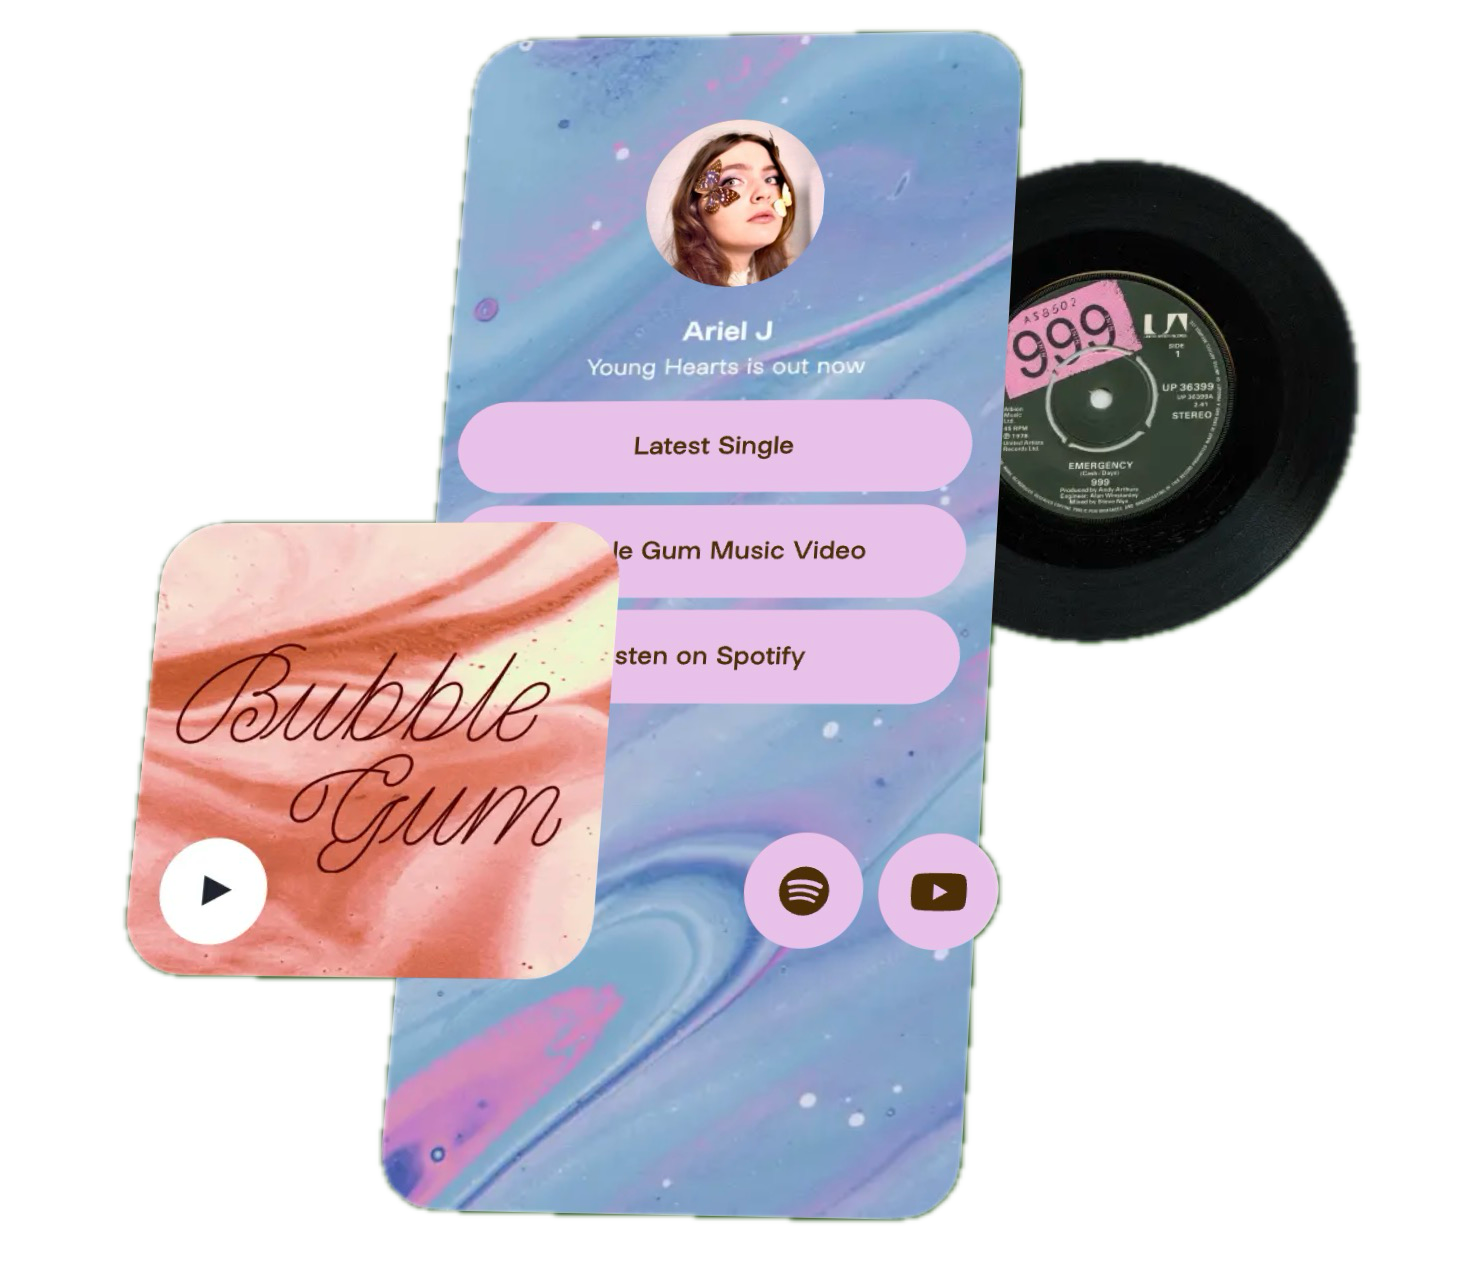
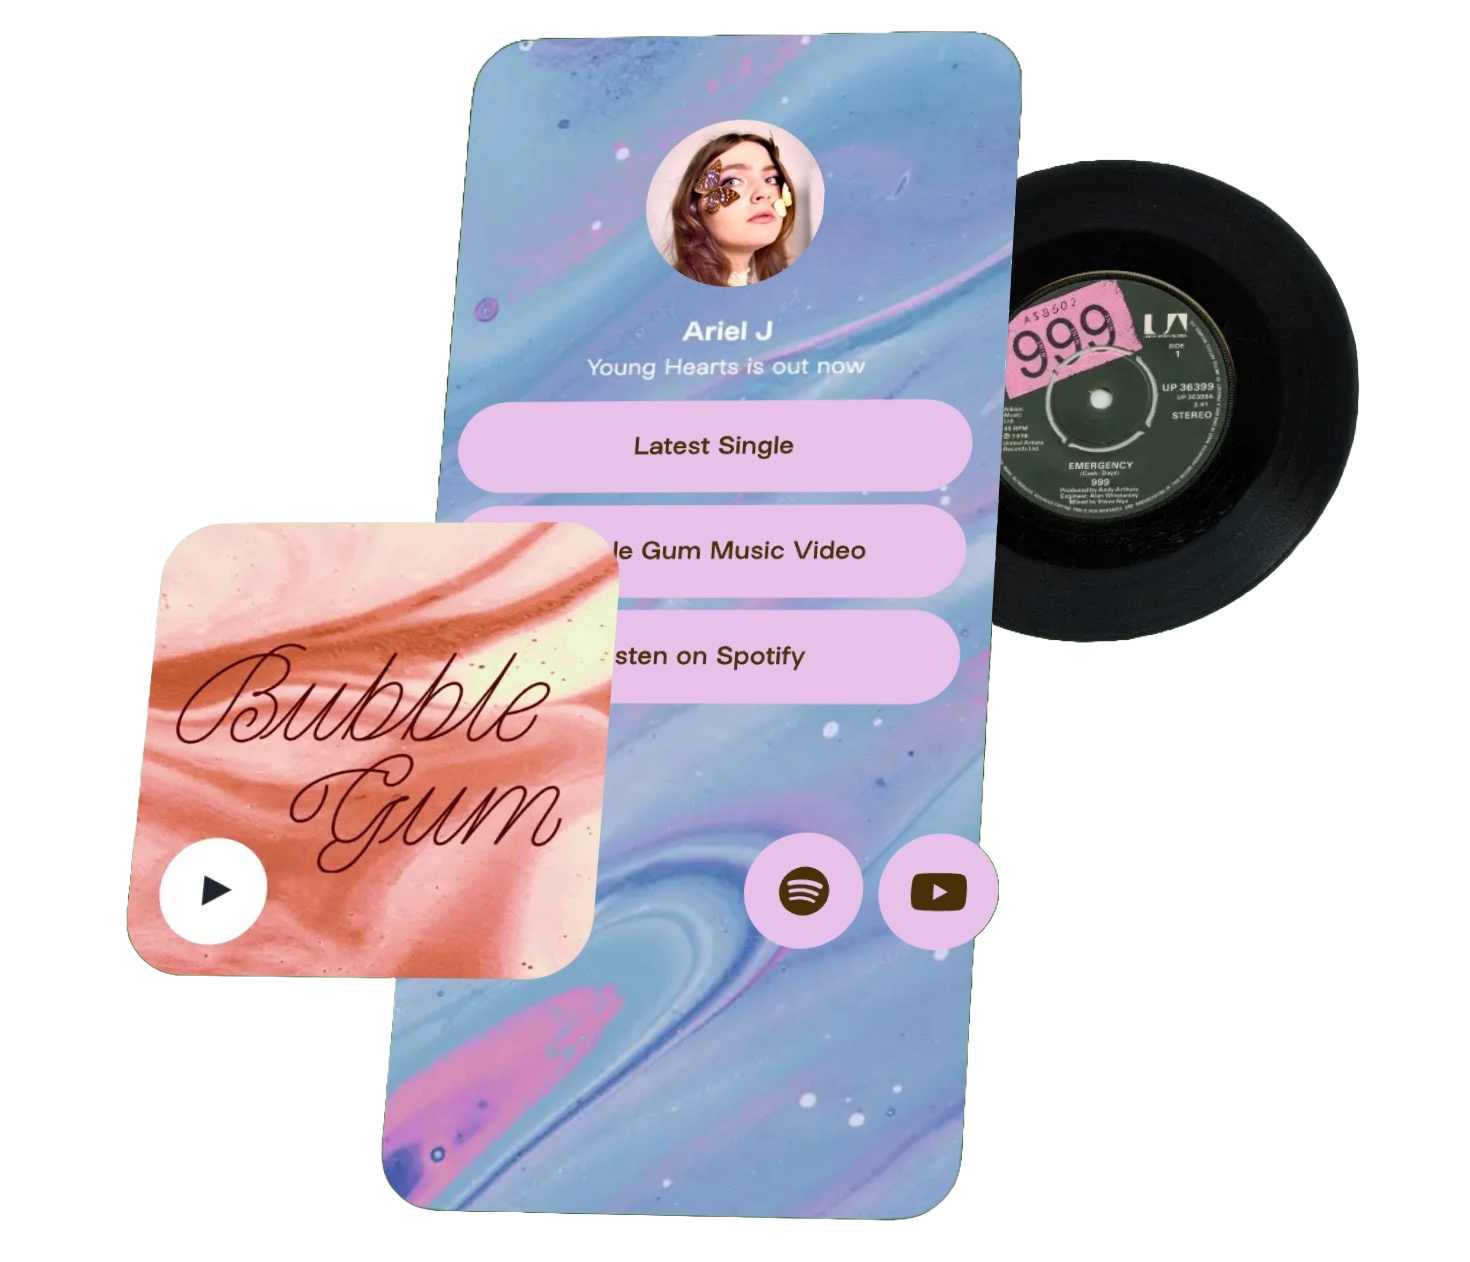
changed color theme and made responsive

diff --git a/src/app/generate/page.js b/src/app/generate/page.js
@@ -6,6 +6,7 @@ import { useSearchParams } from "next/navigation";
 import { ToastContainer, toast } from "react-toastify";
 import "react-toastify/dist/ReactToastify.css";
 import Image from "next/image";
+import { FaTimes } from "react-icons/fa"; // Import icons from react-icons
 
 const Generate = () => {
   const searchParams = useSearchParams();
@@ -43,6 +44,10 @@ const Generate = () => {
     setLinks(links.concat([{ linkName: "", link: "" }]));
   };
 
+  const deleteLink = (index) => {
+    setLinks((initialLinks) => initialLinks.filter((_, i) => i !== index));
+  };
+
   const validateLinks = () => {
     let isValid = true;
 
@@ -62,14 +67,6 @@ const Generate = () => {
   const submitLinks = async () => {
     if (!validateLinks()) {
       return; // Stop if any URL is invalid
-    }
-
-    if (!isValidURL(profilePic.trim())) {
-      toast.error("Please enter a valid profile picture URL.", {
-        position: "bottom-left",
-        theme: "colored",
-      });
-      return;
     }
 
     const myHeaders = new Headers();
@@ -97,8 +94,16 @@ const Generate = () => {
       return;
     }
 
-    if (profilePic.length === 0) {
-      toast.info("Please add profile picture link.", {
+    // if (profilePic.length === 0) {
+    //   toast.info("Please add profile picture link.", {
+    //     position: "bottom-left",
+    //     theme: "colored",
+    //   });
+    //   return;
+    // }
+
+    if (!isValidURL(profilePic.trim())) {
+      toast.error("Please enter a valid profile picture URL.", {
         position: "bottom-left",
         theme: "colored",
       });
@@ -154,14 +159,17 @@ const Generate = () => {
   };
 
   return (
-    <div className="bg-[#235ABE] min-h-screen grid grid-cols-2 border">
-      <div className="bg-white flex justify-center items-center flex-col px-6 py-12">
+    <div className="bg-[#235ABE] min-h-screen flex flex-col lg:flex-row border">
+      {/* First Div - Form Container */}
+      <div className="bg-white flex flex-col   justify-start items-center px-6 py-28 w-full lg:w-1/2">
         <ToastContainer />
-        <h1 className="text-4xl font-bold text-[#235ABE] mb-8">
+
+        {/* Heading with sticky positioning */}
+        <h1 className="text-4xl font-bold text-[#235ABE] mb-8  bg-white py-4 z-10">
           Create your Linkify
         </h1>
 
-        <div className="flex flex-col gap-10 w-full max-w-lg">
+        <div className="flex flex-col gap-10 w-full max-w-lg flex-grow">
           <div>
             <h2 className="text-2xl font-semibold text-gray-800 mb-4">
               Step 1. Claim your Handle
@@ -182,30 +190,44 @@ const Generate = () => {
             </h2>
             <div className="space-y-4">
               {links?.map((item, index) => (
-                <div key={index} className="flex gap-2">
+                <div key={index} className="flex gap-4 items-center">
+                  {/* Link Name Input */}
                   <input
                     onChange={(e) =>
                       handleChange(index, "linkName", e.target.value)
                     }
                     value={item.linkName}
-                    className="flex-1 p-4 border border-gray-300 focus:outline-none focus:ring-2 focus:ring-[#235ABE] rounded-lg shadow-md"
+                    className="w-1/4 p-2 border border-gray-300 focus:outline-none focus:ring-2 focus:ring-[#235ABE] rounded-lg shadow-md"
                     type="text"
-                    placeholder="Enter link name"
+                    placeholder="Link name"
                   />
-                  <div className="flex-1">
-                    <input
-                      onChange={(e) =>
-                        handleChange(index, "link", e.target.value)
-                      }
-                      value={item.link}
-                      className="flex-1 p-4 border border-gray-300 focus:outline-none focus:ring-2 focus:ring-[#235ABE] rounded-lg shadow-md"
-                      type="text"
-                      placeholder="Enter link"
-                    />
-                  </div>
+
+                  {/* Link URL Input */}
+                  <input
+                    onChange={(e) =>
+                      handleChange(index, "link", e.target.value)
+                    }
+                    value={item.link}
+                    className="w-3/4 p-2 border border-gray-300 focus:outline-none focus:ring-2 focus:ring-[#235ABE] rounded-lg shadow-md"
+                    type="text"
+                    placeholder="Enter link URL"
+                  />
+
+                  {/* Delete Button */}
+                  {links.length > 1 ? (
+                    <button
+                      onClick={() => deleteLink(index)}
+                      className="p-2 bg-red-500 text-white rounded-lg shadow-md hover:text-black transition"
+                    >
+                      <FaTimes className=" cursor-pointer" />
+                    </button>
+                  ) : (
+                    ""
+                  )}
                 </div>
               ))}
             </div>
+
             <div className="flex justify-center mt-4">
               <button
                 className="px-6 py-3 text-blue-700 underline font-semibold rounded-lg cursor-pointer hover:text-[#1a4196] transition"
@@ -249,7 +271,8 @@ const Generate = () => {
         </div>
       </div>
 
-      <div className="w-full flex justify-center h-screen">
+      {/* Second Div - Image Container */}
+      <div className="w-full lg:w-1/2 flex justify-center h-screen mt-6 lg:mt-0">
         <img
           className="h-full object-cover"
           src="/generate.png"

diff --git a/src/app/page.js b/src/app/page.js
@@ -2,50 +2,77 @@
 import Image from "next/image";
 import { useRouter } from "next/navigation";
 import { useState } from "react";
+import { ToastContainer, toast } from "react-toastify";
+import "react-toastify/dist/ReactToastify.css";
 
 export default function Home() {
   const [text, setText] = useState("");
   const router = useRouter();
+
   const createLinkify = () => {
+    if (text.trim() === "")
+      return toast.error("Please enter a handle!", {
+        position: "bottom-left",
+      });
     router.push(`/generate?handle=${text}`);
   };
+
   return (
     <main>
-      <section className="bg-[#274F1B] min-h-[100vh] grid grid-cols-2">
-        <div className="flex justify-center flex-col mx-[10vw] gap-2">
-          <p className="text-6xl text-yellow-500 font-bold">All of you, </p>{" "}
-          <p className="text-6xl text-yellow-500 font-bold">captured in</p>
-          <p className="text-6xl text-yellow-500 font-bold">
-            {" "}
-            one simple link.
+      {/* Hero Section */}
+      <section className="bg-[#F7F8FA] min-h-screen grid grid-cols-1 lg:grid-cols-2 py-24">
+        {/* Text Content */}
+        <div className="flex justify-center flex-col px-8 lg:pl-[10vw] lg:pr-4 py-12 gap-4">
+          <ToastContainer />
+          <h1 className="text-5xl lg:text-6xl text-[#4A4E69] font-extrabold leading-tight">
+            All of you, captured in{" "}
+            <span className="text-[#9A8C98] animate-color-change">
+              one simple link.
+            </span>{" "}
+          </h1>
+          <p className="text-[#6B705C] text-lg lg:text-xl pt-4 leading-relaxed">
+            Create your personalized Linkify page to share everything you
+            create, curate, and sell with one link. Perfect for showcasing your
+            content from Instagram, TikTok, Twitter, YouTube, and more, Linkify
+            brings all your social media profiles together in one place.
           </p>
-          <p className="text-yellow-300 text-xl pt-4">
-            Join 50M+ people using Linktree for their link in bio. One link to
-            help you share everything you create, curate and sell from your
-            Instagram, TikTok, Twitter, YouTube and other social media profiles.
-          </p>
-          <div className="mt-4">
+
+          {/* Input and Button */}
+          <div className="mt-6 flex flex-wrap gap-4">
             <input
-              className="p-2 rounded-md focus:outline-[#274F1B]"
+              className="w-full lg:w-auto p-3 rounded-md focus:outline-[#9A8C98] text-gray-800 shadow-md placeholder-gray-500 border border-gray-300"
               type="text"
-              placeholder="enter your handle"
+              placeholder="Enter your handle"
               value={text}
               onChange={(e) => setText(e.target.value)}
             />
-
             <button
-              className="bg-green-500 p-2 ml-2 rounded-lg font-semibold rounded-m"
-              onClick={() => createLinkify()}
+              className="bg-[#9A8C98] text-white p-3 rounded-md font-semibold shadow-lg hover:bg-[#6B705C] transition-all duration-300"
+              onClick={createLinkify}
             >
               Claim your Linkify
             </button>
           </div>
         </div>
-        <div className="flex items-center justify-center flex-col mx-[10vw]">
-          <Image src="/showcase.jpg" height={900} width={900} alt="showcase" />
+
+        {/* Showcase Image */}
+        <div className="flex items-center justify-center px-8 py-12 lg:pr-[15vw]">
+          <Image
+            src="/showcaseBG.png"
+            height={900}
+            width={900}
+            alt="Showcase"
+            className="rounded-lg"
+          />
         </div>
       </section>
-      <section className="bg-red-600 min-h-[100vh]"></section>
+
+      {/* Placeholder for Next Section */}
+      <section className="bg-[#FFE8D6] min-h-screen flex items-center justify-center">
+        <h2 className="text-4xl text-[#4A4E69] font-bold flex items-center justify-center">
+          More exciting features coming soon!
+        </h2>
+      </section>
     </main>
   );
 }

diff --git a/src/components/Header.js b/src/components/Header.js
@@ -6,25 +6,28 @@ import React from "react";
 const Header = () => {
   const pathName = usePathname();
   const showHeader = ["/", "/generate"].includes(pathName);
+
   return (
     <>
       {showHeader && (
-        <div className="flex items-center border border-black fixed justify-between top-10 bg-white p-2 w-[80vw] right-[10vw] rounded-full px-6">
+        <header className="flex items-center justify-between fixed top-6 w-[80vw] right-[10vw] bg-[#F7F8FA] p-4 rounded-full shadow-lg border border-gray-200 z-50">
+          {/* Logo */}
           <div>
-            <h1 className="flex items-center text-3xl poppins-semibold-italic">
-              {" "}
+            <h1 className="text-2xl lg:text-3xl font-bold text-[#4A4E69]">
               <Link href="/">Linkify</Link>
             </h1>
           </div>
+
+          {/* Buttons */}
           <div className="flex gap-4">
-            <button className="border bg-gray-300 font-semibold p-2 rounded-lg">
+            <button className="px-4 py-2 text-sm lg:text-base bg-[#D3D3D3] text-[#4A4E69] font-semibold rounded-lg hover:bg-gray-300 transition-all duration-200">
               Log In
             </button>
-            <button className="border bg-gray-800 font-semibold text-white p-2 rounded-lg">
-              Sign up free
+            <button className="px-4 py-2 text-sm lg:text-base bg-[#9A8C98] text-white font-semibold rounded-lg hover:bg-[#6B705C] transition-all duration-200">
+              Sign Up Free
             </button>
           </div>
-        </div>
+        </header>
       )}
     </>
   );

diff --git a/src/app/[handle]/page.js b/src/app/[handle]/page.js
@@ -77,7 +77,7 @@ export default async function Page({ params }) {
 
   return (
     <>
-      <div className="flex min-h-screen bg-purple-400 justify-center items-center py-10">
+      <div className="flex min-h-screen bg-pastel-blue justify-center items-center py-10">
         <div className="flex flex-col justify-center items-center bg-white p-6 rounded-lg shadow-lg w-80 text-center">
           {/* Profile Picture and Handle */}
           <div className="photo flex flex-col justify-center items-center mb-6">
@@ -109,7 +109,7 @@ export default async function Page({ params }) {
                   href={normalizedLink}
                   target="_blank"
                   rel="noopener noreferrer"
-                  className="bg-purple-600 justify-center text-white py-3 px-4 rounded-lg hover:bg-purple-700 transition-all duration-300 flex items-center gap-3"
+                  className="bg-purple-600 justify-center text-white py-3 px-4 rounded-lg hover:bg-pastel-blue hover:text-black transition-all duration-300 flex items-center gap-3"
                 >
                   {getIconForLink(normalizedLink)} {/* Display Icon */}
                   {link.linkName.charAt(0).toUpperCase() +

diff --git a/tailwind.config.js b/tailwind.config.js
@@ -10,6 +10,22 @@ module.exports = {
       colors: {
         background: "var(--background)",
         foreground: "var(--foreground)",
+        "pastel-purple": "#B5A5D1",
+        "pastel-pink": "#F6D1D1",
+        "pastel-blue": "#A3D9FF",
+        "pastel-green": "#A8E6CF",
+        "pastel-yellow": "#FFF8B5",
+        "pastel-gray": "#9A8C98", // Original color
+        "dark-gray": "#4A4E69", // Darker color
+      },
+      animation: {
+        "color-change": "colorChange 2s ease-in-out infinite",
+      },
+      keyframes: {
+        colorChange: {
+          "0%, 100%": { color: "#9A8C98" }, // Original color
+          "50%": { color: "#6B705C" }, // Darker color at halfway point
+        },
       },
     },
   },

diff --git a/src/app/layout.js b/src/app/layout.js
@@ -23,13 +23,12 @@ export default function RootLayout({ children }) {
   return (
     <html lang="en">
       <body
-        className={`${geistSans.variable} ${geistMono.variable} antialiased bg-[#274F1B]`}
+        className={`${geistSans.variable} ${geistMono.variable} antialiased `}
       >
         <Suspense fallback={""}>
           <Header />
           {children}
         </Suspense>
-        ;
       </body>
     </html>
   );
